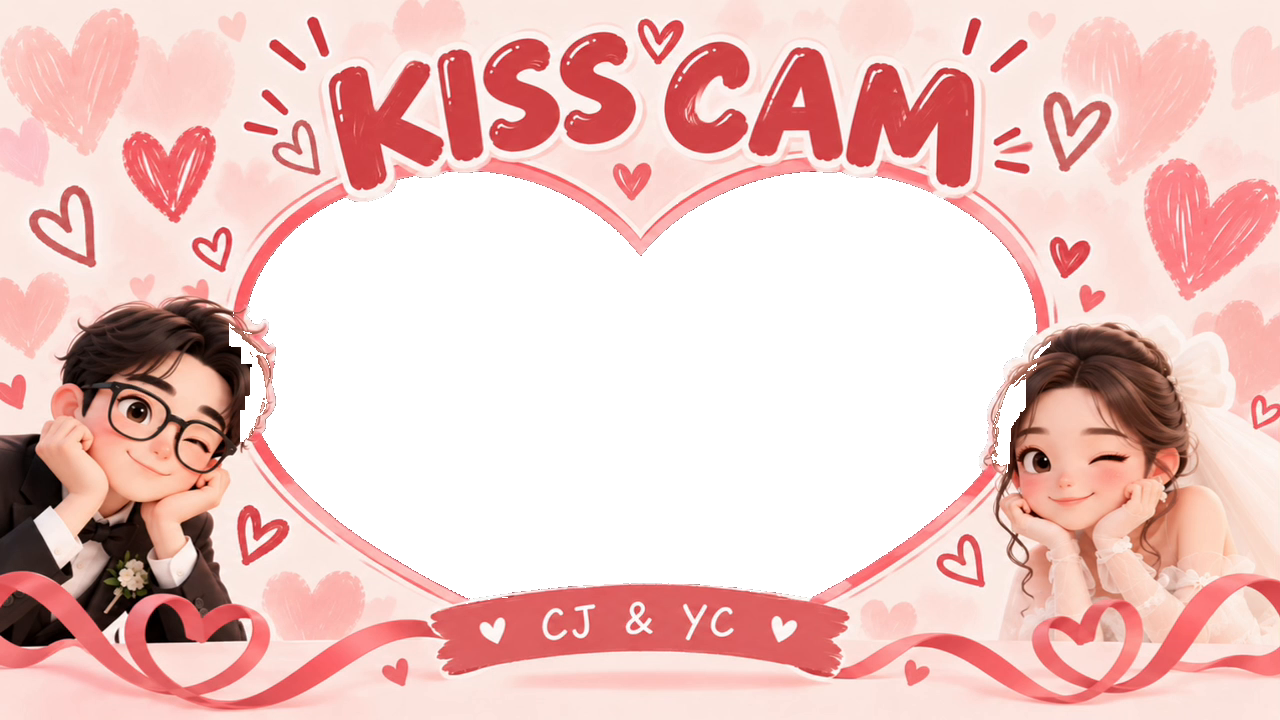
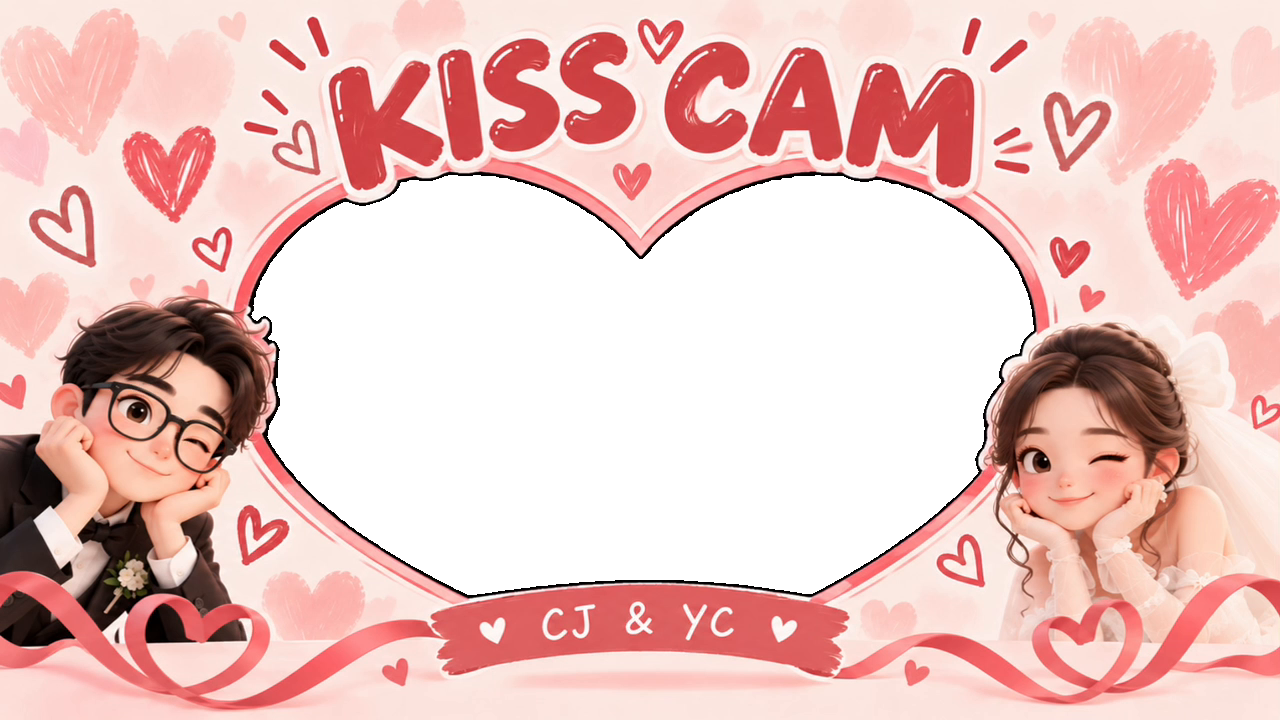
Restore bride/groom hair over the Kiss Cam heart hole.
Rebuild love-frame.png without eating dark hair into the keyed hole,
restore hair-colored pixels along the heart edge, and keep the live
mask at 100% so the video stays under the characters.

diff --git a/src/app/globals.css b/src/app/globals.css
@@ -334,8 +334,8 @@ h3,
   /* Same silhouette as LED live share (live-heart-mask.png) */
   -webkit-mask-image: url("/assets/kiss-cam/live-heart-mask.png");
   mask-image: url("/assets/kiss-cam/live-heart-mask.png");
-  -webkit-mask-size: 108% 108%;
-  mask-size: 108% 108%;
+  -webkit-mask-size: 100% 100%;
+  mask-size: 100% 100%;
   -webkit-mask-repeat: no-repeat;
   mask-repeat: no-repeat;
   -webkit-mask-position: center;
@@ -950,10 +950,10 @@ h3,
 }
 
 /* Exact heart silhouette (cropped from kiss-cam.mp4) for the live share window.
-   Slightly oversized so the live feed tucks under the pink rim (no black fringe). */
+   Keep at 100% so bride/groom hair over the hole stays in front. */
 .kiss-cam-live-heart-mask {
-  -webkit-mask-size: 108% 108%;
-  mask-size: 108% 108%;
+  -webkit-mask-size: 100% 100%;
+  mask-size: 100% 100%;
   -webkit-mask-repeat: no-repeat;
   mask-repeat: no-repeat;
   -webkit-mask-position: center;
